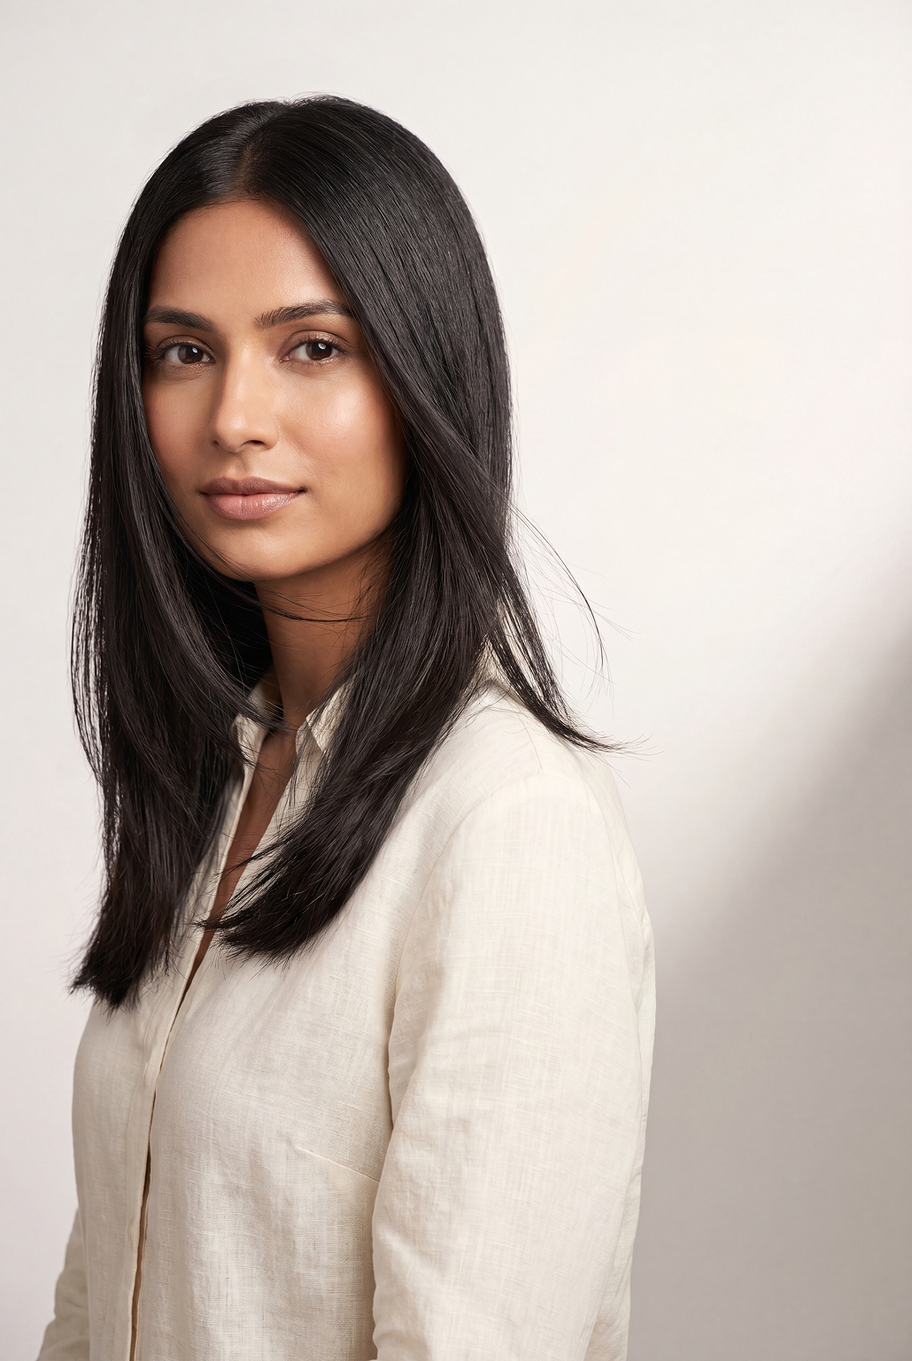
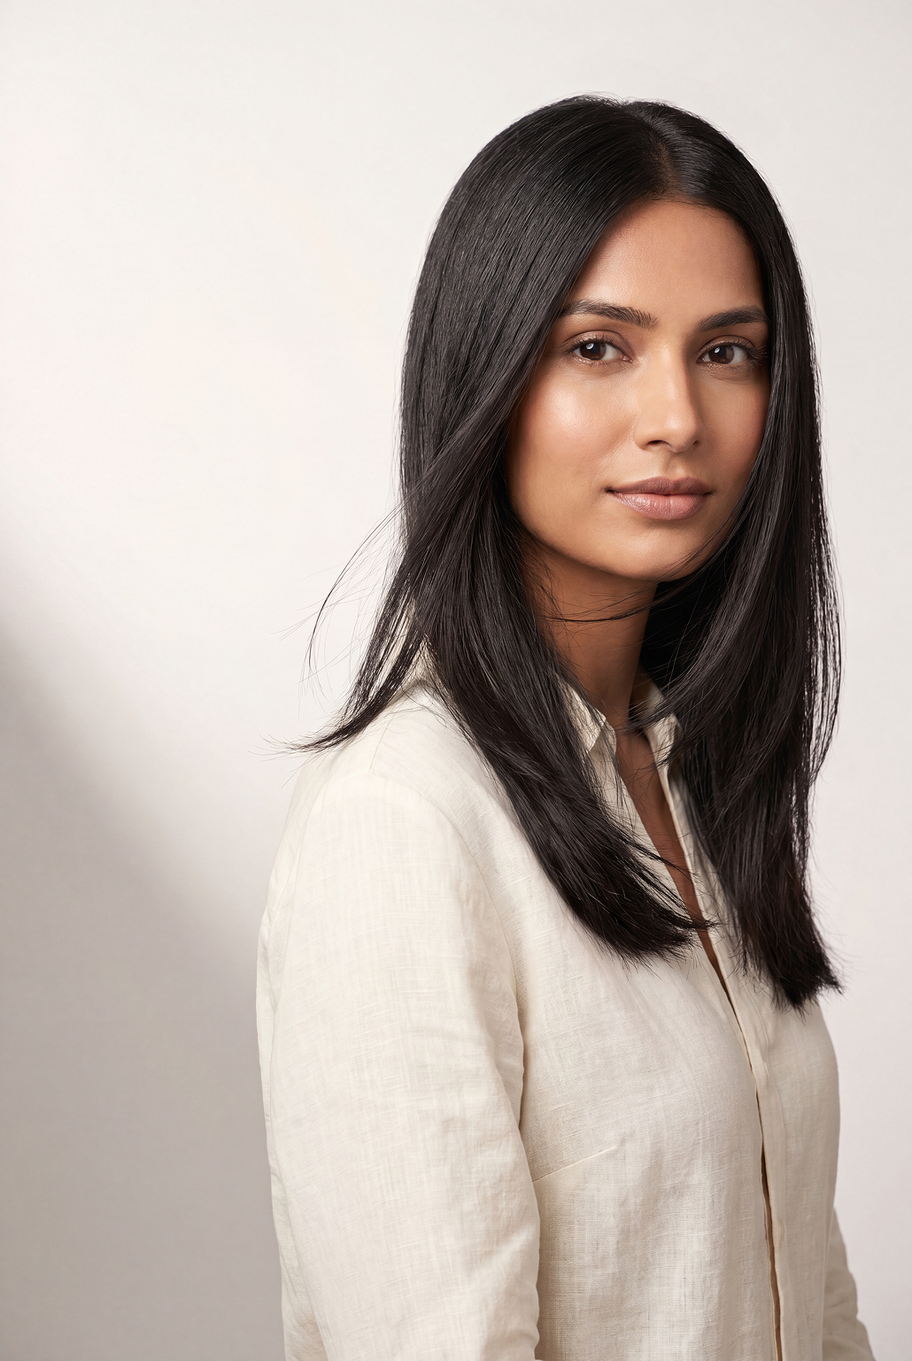
refactor: add patient name and optional feedback bypass to report viewer with hero image mask fix for PDF exports

diff --git a/src/pages/TestReportPage.tsx b/src/pages/TestReportPage.tsx
@@ -26,6 +26,25 @@ const VARIANT_OPTIONS: Record<string, string[]> = {
   FGFR2: ['TT', 'GT', 'GG'],
 };
 
+// Every question's 3 options are seeded in the same fixed order (score 1, 0, -1 -
+// see server/createQuestionsTable.js), and each gene's 3 genotypes represent the
+// same dominant/heterozygous/recessive tiers - so "High"/"Neutral"/"Low" picks a
+// consistent tier across every question AND every gene, rather than the old
+// per-question/per-gene random pick (which could land on a mix of tiers and
+// produce an internally inconsistent-reading report). Note VARIANT_OPTIONS above
+// is the raw lab-entry dropdown order (not always High-to-Low - e.g. ACE lists
+// II first), so this maps genotypes explicitly by tier instead of by array index.
+type RandomizeLevel = 'high' | 'neutral' | 'low';
+const LEVEL_TO_OPTION_INDEX: Record<RandomizeLevel, number> = { high: 0, neutral: 1, low: 2 };
+const LEVEL_GENOTYPE: Record<string, Record<RandomizeLevel, string>> = {
+  CYP1A2: { high: 'AA', neutral: 'AC', low: 'CC' },
+  ADORA2A: { high: 'TT', neutral: 'TC', low: 'CC' },
+  ACTN3: { high: 'RR', neutral: 'RX', low: 'XX' },
+  ACE: { high: 'DD', neutral: 'ID', low: 'II' },
+  EDAR: { high: 'GG', neutral: 'AG', low: 'AA' },
+  FGFR2: { high: 'TT', neutral: 'GT', low: 'GG' },
+};
+
 interface SelectedQuestion extends Question {
   test_name: string;
   subgene_name: string;
@@ -190,12 +209,13 @@ export default function TestReportPage() {
     }
   };
 
-  const handleRandomize = () => {
+  const handleRandomize = (level: RandomizeLevel) => {
+    const optionIndex = LEVEL_TO_OPTION_INDEX[level];
     if (questions.length > 0) {
       setAnswers(prev => {
         const next = { ...prev };
         questions.forEach(q => {
-          next[q.uniqueId] = Math.floor(Math.random() * q.options.length);
+          next[q.uniqueId] = Math.min(optionIndex, q.options.length - 1);
         });
         return next;
       });
@@ -208,9 +228,9 @@ export default function TestReportPage() {
       setGeneVariants(prev => {
         const next = { ...prev };
         genesToRandomize.forEach(gene => {
-          const opts = VARIANT_OPTIONS[gene];
-          if (opts && opts.length > 0) {
-            next[gene] = opts[Math.floor(Math.random() * opts.length)];
+          const genotype = LEVEL_GENOTYPE[gene]?.[level];
+          if (genotype) {
+            next[gene] = genotype;
           }
         });
         return next;
@@ -521,14 +541,25 @@ export default function TestReportPage() {
             Answered: <span className="font-bold text-[#1A1A19]">{answeredQuestionIds.size}</span> / {questions.length}
           </span>
           <div className="flex items-center gap-3">
-            <button
-              onClick={handleRandomize}
-              disabled={questions.length === 0}
-              className="flex items-center gap-2 px-4 py-2.5 rounded-xl font-bold text-sm border border-[#E8E8E5] text-[#1A1A19] hover:bg-[#F0F0ED] transition-all disabled:opacity-50 disabled:cursor-not-allowed"
-            >
-              <Shuffle className="w-4 h-4" />
-              Randomize
-            </button>
+            <div className="relative">
+              <Shuffle className="w-4 h-4 absolute left-3.5 top-1/2 -translate-y-1/2 pointer-events-none text-[#1A1A19]" />
+              <select
+                value=""
+                onChange={(e) => {
+                  const level = e.target.value as RandomizeLevel | '';
+                  if (level) handleRandomize(level);
+                  e.target.value = '';
+                }}
+                disabled={questions.length === 0}
+                className="appearance-none cursor-pointer flex items-center gap-2 pl-9 pr-8 py-2.5 rounded-xl font-bold text-sm border border-[#E8E8E5] text-[#1A1A19] bg-white hover:bg-[#F0F0ED] transition-all disabled:opacity-50 disabled:cursor-not-allowed"
+              >
+                <option value="" disabled>Randomize</option>
+                <option value="high">High</option>
+                <option value="neutral">Neutral</option>
+                <option value="low">Low</option>
+              </select>
+              <ChevronDown className="w-3.5 h-3.5 absolute right-3 top-1/2 -translate-y-1/2 pointer-events-none text-[#8B8B86]" />
+            </div>
             <button
               onClick={handleGenerate}
               disabled={!allAnswered || generating}
@@ -1527,6 +1558,34 @@ export default function TestReportPage() {
                               while (zoomCleanupFns.length) zoomCleanupFns.pop()();
                           };
 
+                          // html2canvas (used internally by html2pdf) doesn't support CSS
+                          // mask-image / -webkit-mask-image at all - it paints the Page 1 hero
+                          // photo fully opaque with a hard edge instead of the soft left-to-white
+                          // fade the live HTML preview shows via that mask. For capture only, lay
+                          // an ordinary white gradient div directly on top of the image (which
+                          // html2canvas paints fine) using the mask's own alpha stops inverted
+                          // onto opaque white, then remove it afterward via the same cleanup list
+                          // neutralizeZoom uses - the live preview's actual mask is never touched.
+                          // Mirrors ReportViewerModal.tsx.
+                          const addHeroFadeOverlay = (scope) => {
+                              const heroImage = scope.querySelector ? scope.querySelector('#page1-hero-image') : null;
+                              if (!heroImage) return;
+                              const rect = heroImage.getBoundingClientRect();
+                              if (rect.width === 0 && rect.height === 0) return; // not actually visible
+
+                              const overlay = document.createElement('div');
+                              overlay.style.position = 'absolute';
+                              overlay.style.top = '0';
+                              overlay.style.right = '0';
+                              overlay.style.width = heroImage.style.width || (rect.width + 'px');
+                              overlay.style.height = rect.height + 'px';
+                              overlay.style.pointerEvents = 'none';
+                              overlay.style.background = 'linear-gradient(90deg, #fff 0%, #fff 4%, rgba(255,255,255,.92) 9%, rgba(255,255,255,.78) 14%, rgba(255,255,255,.58) 19%, rgba(255,255,255,.36) 25%, rgba(255,255,255,.16) 31%, rgba(255,255,255,0) 39%)';
+
+                              heroImage.parentNode.insertBefore(overlay, heroImage.nextSibling);
+                              zoomCleanupFns.push(() => { overlay.remove(); });
+                          };
+
                           const opt = {
                             margin:       0,
                             filename:     filename || 'report.pdf',
@@ -1560,8 +1619,10 @@ export default function TestReportPage() {
                                           innerRestore.style.minHeight = (window.__originalPageMinHeights && window.__originalPageMinHeights.get(innerRestore)) || '';
                                       }
                                       // Only the page about to be captured is visible, so its zoomed
-                                      // elements can only be measured (and thus wrapped) now.
+                                      // elements (and the hero image's mask, if this is Page 1) can
+                                      // only be measured/patched now.
                                       neutralizeZoom(pages[i]);
+                                      addHeroFadeOverlay(pages[i]);
                                       return new Promise(r => setTimeout(r, 100)); // allow DOM to settle
                                   });
 
@@ -1579,6 +1640,7 @@ export default function TestReportPage() {
                               pages.forEach(p => p.style.display = ''); // restore display
                             } else {
                               neutralizeZoom(container);
+                              addHeroFadeOverlay(container);
                               await html2pdf().set(opt).from(container).save();
                               restoreZoom();
                             }
@@ -1601,7 +1663,9 @@ export default function TestReportPage() {
                     </script>
                   `;
 
-                  const now = new Date();
+                  // Fixed sample values for this QA page (not tied to a real patient/date) -
+                  // September 5th, 2026, 10:05 AM.
+                  const now = new Date(2026, 8, 5, 10, 5);
                   const formattedDate = now.toLocaleString('en-US', {
                     day: 'numeric',
                     month: 'short',
@@ -1610,6 +1674,8 @@ export default function TestReportPage() {
                     minute: '2-digit',
                     hour12: true
                   });
+                  const sampleMbqId = 'MBQ2026000';
+                  const sampleName = 'Sample Name';
 
                   const pageCount = (html.match(/data-screen-label=/g) || []).length;
                   setTotalPages(pageCount > 0 ? pageCount : 1);
@@ -1743,11 +1809,19 @@ export default function TestReportPage() {
                     </style>
                   `;
 
-                  const finalHtml = html
+                  let finalHtml = html
                     .replace('<head>', `<head><base href="${window.location.origin}/">\n${fontCss}`)
                     .replace('src="./support.js"', 'src="/templates/support.js"')
                     .replace(/dd mm yyyy/g, formattedDate)
                     .replace('</body>', scriptString + '\n' + carouselScript + '\n</body>');
+
+                  // Catches "CQ ID: CQ-2024...", "MBQ ID: MBQ-2024...", etc. in all templates
+                  // (Caffeine, Muscle, Hair) - replaces every page's footer in one pass and
+                  // appends the sample name alongside it. Mirrors ReportViewerModal.tsx.
+                  finalHtml = finalHtml.replace(
+                    /(?:CQ|MBQ|HQ)?\s*ID:\s*(?:CQ|MBQ|HQ)?-?\d{4}-\d{4}-\d{6}/g,
+                    `ID: ${sampleMbqId} &bull; ${sampleName}`
+                  );
 
                   setReportHtml(finalHtml);
                 } catch (err) {

diff --git a/src/components/ReportViewerModal.tsx b/src/components/ReportViewerModal.tsx
@@ -9,8 +9,13 @@ interface ReportViewerModalProps {
   geneVariants: any;
   testName: string;
   mbqId?: string;
+  patientName?: string | null;
   generatedAt?: string | null;
   gender?: string | null;
+  /** Whether per-page feedback must be given before the download unlocks. Defaults
+   * to true for the patient-facing dashboard; the admin verification portal passes
+   * false so staff can download straight away. */
+  requireFeedback?: boolean;
 }
 
 // Every template page is laid out at a fixed intrinsic size (matches the
@@ -49,7 +54,7 @@ const DislikeIcon = ({ className }: { className?: string }) => (
   </svg>
 );
 
-export default function ReportViewerModal({ isOpen, onClose, reportData, geneVariants, testName, mbqId, generatedAt, gender }: ReportViewerModalProps) {
+export default function ReportViewerModal({ isOpen, onClose, reportData, geneVariants, testName, mbqId, patientName, generatedAt, gender, requireFeedback = true }: ReportViewerModalProps) {
   const [reportHtml, setReportHtml] = useState<string | null>(null);
   const [scale, setScale] = useState(1);
   const viewportRef = useRef<HTMLDivElement>(null);
@@ -90,7 +95,7 @@ export default function ReportViewerModal({ isOpen, onClose, reportData, geneVar
   // Guards against briefly re-prompting for a page's feedback while the fetch of
   // previously-given feedback (below) is still in flight.
   const [feedbackLoaded, setFeedbackLoaded] = useState(false);
-  const hasAllFeedback = totalPages > 0 && Object.keys(pageFeedbacks).length >= totalPages;
+  const hasAllFeedback = !requireFeedback || (totalPages > 0 && Object.keys(pageFeedbacks).length >= totalPages);
 
   // Download countdown / "what's next" interest-collection flow.
   const [showDownloadFlow, setShowDownloadFlow] = useState(false);
@@ -111,6 +116,12 @@ export default function ReportViewerModal({ isOpen, onClose, reportData, geneVar
   // was closed partway through) so those pages aren't asked again.
   useEffect(() => {
     if (!isOpen || !testName || !mbqId) return;
+    if (!requireFeedback) {
+      // Admin portal: skip the feedback fetch/gate entirely so Next Page and
+      // Download are never blocked waiting on it.
+      setFeedbackLoaded(true);
+      return;
+    }
     setFeedbackLoaded(false);
     fetch(`/api/test/feedback?test_name=${encodeURIComponent(testName)}&mbq_id=${encodeURIComponent(mbqId)}`)
       .then(res => res.json())
@@ -128,7 +139,7 @@ export default function ReportViewerModal({ isOpen, onClose, reportData, geneVar
       })
       .catch(err => console.error('Failed to load existing feedback:', err))
       .finally(() => setFeedbackLoaded(true));
-  }, [isOpen, testName, mbqId]);
+  }, [isOpen, testName, mbqId, requireFeedback]);
 
   // Load any interest the user already recorded (in a previous report's download flow,
   // possibly) for the upcoming tests, so the same choices don't need repeating.
@@ -1240,6 +1251,33 @@ export default function ReportViewerModal({ isOpen, onClose, reportData, geneVar
                               while (zoomCleanupFns.length) zoomCleanupFns.pop()();
                           };
 
+                          // html2canvas (used internally by html2pdf) doesn't support CSS
+                          // mask-image / -webkit-mask-image at all - it paints the Page 1 hero
+                          // photo fully opaque with a hard edge instead of the soft left-to-white
+                          // fade the live HTML preview shows via that mask. For capture only, lay
+                          // an ordinary white gradient div directly on top of the image (which
+                          // html2canvas paints fine) using the mask's own alpha stops inverted
+                          // onto opaque white, then remove it afterward via the same cleanup list
+                          // neutralizeZoom uses - the live preview's actual mask is never touched.
+                          const addHeroFadeOverlay = (scope) => {
+                              const heroImage = scope.querySelector ? scope.querySelector('#page1-hero-image') : null;
+                              if (!heroImage) return;
+                              const rect = heroImage.getBoundingClientRect();
+                              if (rect.width === 0 && rect.height === 0) return; // not actually visible
+
+                              const overlay = document.createElement('div');
+                              overlay.style.position = 'absolute';
+                              overlay.style.top = '0';
+                              overlay.style.right = '0';
+                              overlay.style.width = heroImage.style.width || (rect.width + 'px');
+                              overlay.style.height = rect.height + 'px';
+                              overlay.style.pointerEvents = 'none';
+                              overlay.style.background = 'linear-gradient(90deg, #fff 0%, #fff 4%, rgba(255,255,255,.92) 9%, rgba(255,255,255,.78) 14%, rgba(255,255,255,.58) 19%, rgba(255,255,255,.36) 25%, rgba(255,255,255,.16) 31%, rgba(255,255,255,0) 39%)';
+
+                              heroImage.parentNode.insertBefore(overlay, heroImage.nextSibling);
+                              zoomCleanupFns.push(() => { overlay.remove(); });
+                          };
+
                           const opt = {
                             margin:       0,
                             filename:     filename || 'report.pdf',
@@ -1272,8 +1310,10 @@ export default function ReportViewerModal({ isOpen, onClose, reportData, geneVar
                                           innerRestore.style.minHeight = (window.__originalPageMinHeights && window.__originalPageMinHeights.get(innerRestore)) || '';
                                       }
                                       // Only the page about to be captured is visible, so its zoomed
-                                      // elements can only be measured (and thus wrapped) now.
+                                      // elements (and the hero image's mask, if this is Page 1) can
+                                      // only be measured/patched now.
                                       neutralizeZoom(pages[i]);
+                                      addHeroFadeOverlay(pages[i]);
                                       return new Promise(r => setTimeout(r, 100)); // allow DOM to settle
                                   });
 
@@ -1291,6 +1331,7 @@ export default function ReportViewerModal({ isOpen, onClose, reportData, geneVar
                               pages.forEach(p => p.style.display = ''); // restore display
                             } else {
                               neutralizeZoom(container);
+                              addHeroFadeOverlay(container);
                               await html2pdf().set(opt).from(container).save();
                               restoreZoom();
                             }
@@ -1441,7 +1482,17 @@ export default function ReportViewerModal({ isOpen, onClose, reportData, geneVar
 
       if (mbqId) {
         // Catches "CQ ID: CQ-2024...", "MBQ ID: MBQ-2024...", etc. in all templates (Caffeine, Muscle, Hair, etc.)
-        finalHtml = finalHtml.replace(/(?:CQ|MBQ|HQ)?\s*ID:\s*(?:CQ|MBQ|HQ)?-?\d{4}-\d{4}-\d{6}/g, `ID: ${mbqId}`);
+        // — replaces it on every page's footer in one pass since the placeholder text is
+        // identical across all 5 pages. Appends the patient's name alongside it (same footer
+        // slot) rather than touching each template's markup individually.
+        const escapeHtml = (s: string) => s.replace(/&/g, '&amp;').replace(/</g, '&lt;').replace(/>/g, '&gt;');
+        const footerIdText = patientName
+          ? `ID: ${mbqId} &bull; ${escapeHtml(patientName)}`
+          : `ID: ${mbqId}`;
+        // $ has special meaning as a String.replace replacement token (e.g. "$&") - escape any
+        // literal $ in the name/id so it can't be misinterpreted.
+        const safeFooterIdText = footerIdText.replace(/\$/g, '$$$$');
+        finalHtml = finalHtml.replace(/(?:CQ|MBQ|HQ)?\s*ID:\s*(?:CQ|MBQ|HQ)?-?\d{4}-\d{4}-\d{6}/g, safeFooterIdText);
       }
 
       setReportHtml(finalHtml);
@@ -1564,7 +1615,7 @@ export default function ReportViewerModal({ isOpen, onClose, reportData, geneVar
                     {currentPageIndex + 1} / {totalPages}
                   </span>
 
-                  {feedbackLoaded && currentPageIndex === totalPages - 1 && !pageFeedbacks[currentPageIndex] ? (
+                  {requireFeedback && feedbackLoaded && currentPageIndex === totalPages - 1 && !pageFeedbacks[currentPageIndex] ? (
                     <button
                       onClick={() => {
                         setPendingNextIndex(null);
@@ -1580,9 +1631,10 @@ export default function ReportViewerModal({ isOpen, onClose, reportData, geneVar
                       onClick={() => {
                         // Previously-answered pages (loaded from an earlier visit) skip
                         // straight ahead; only an unanswered page prompts for feedback.
+                        // Admin portal (requireFeedback=false) always skips straight ahead.
                         if (!feedbackLoaded) return;
                         if (currentPageIndex < totalPages - 1) {
-                          if (!pageFeedbacks[currentPageIndex]) {
+                          if (requireFeedback && !pageFeedbacks[currentPageIndex]) {
                             setPendingNextIndex(currentPageIndex + 1);
                             setShowFeedbackPrompt(true);
                           } else {

diff --git a/src/pages/PatientDashboardPage.tsx b/src/pages/PatientDashboardPage.tsx
@@ -47,7 +47,7 @@ export default function PatientDashboardPage() {
   const [showSurveyModal, setShowSurveyModal] = useState(false);
   const [showLifestyleModal, setShowLifestyleModal] = useState(false);
   const [selectedAIReport, setSelectedAIReport] = useState<{ geneName: string, content: string } | null>(null);
-  const [viewReportData, setViewReportData] = useState<{ testName: string; reportData: any; variants: any; mbqId?: string; generatedAt?: string | null; gender?: string | null } | null>(null);
+  const [viewReportData, setViewReportData] = useState<{ testName: string; reportData: any; variants: any; mbqId?: string; patientName?: string | null; generatedAt?: string | null; gender?: string | null } | null>(null);
   const [fetchDataStatus, setFetchDataStatus] = useState<{ type: 'success' | 'error' | 'warning', message: string } | null>(null);
   const [hasMultipleProfiles, setHasMultipleProfiles] = useState(false);
   const [showSwabTutorial, setShowSwabTutorial] = useState(false);
@@ -235,7 +235,7 @@ export default function PatientDashboardPage() {
             )}
             {reportData.ai_report && (
               <button
-                onClick={() => setViewReportData({ testName: geneName, reportData: reportData.ai_report, variants: reportData.variants, mbqId: formatUserId(user.id, user.created_at), generatedAt: getReportGeneratedAt(reportData, user.status_timestamps?.generated), gender: user.gender })}
+                onClick={() => setViewReportData({ testName: geneName, reportData: reportData.ai_report, variants: reportData.variants, mbqId: formatUserId(user.id, user.created_at), patientName: user.full_name, generatedAt: getReportGeneratedAt(reportData, user.status_timestamps?.generated), gender: user.gender })}
                 className="flex items-center gap-2 px-3 py-1.5 sm:px-4 sm:py-2 bg-[#6057D7] text-white rounded-full text-xs sm:text-sm font-medium hover:bg-[#4F46B8] transition-colors shadow-sm cursor-pointer"
               >
                 <Sparkles size={16} />
@@ -644,7 +644,7 @@ export default function PatientDashboardPage() {
                       )}
                       {reportData.ai_report && (
                         <button
-                          onClick={() => setViewReportData({ testName: geneName, reportData: reportData.ai_report, variants: reportData.variants, mbqId: formatUserId(user.id, user.created_at), generatedAt: getReportGeneratedAt(reportData, user.status_timestamps?.generated), gender: user.gender })}
+                          onClick={() => setViewReportData({ testName: geneName, reportData: reportData.ai_report, variants: reportData.variants, mbqId: formatUserId(user.id, user.created_at), patientName: user.full_name, generatedAt: getReportGeneratedAt(reportData, user.status_timestamps?.generated), gender: user.gender })}
                           className="flex-1 py-3.5 bg-amber-100 hover:bg-amber-200 text-amber-700 rounded-xl font-semibold text-sm flex items-center justify-center gap-2 shadow-md transition-all active:scale-95 cursor-pointer"
                         >
                           <Sparkles size={18} />
@@ -841,6 +841,7 @@ export default function PatientDashboardPage() {
           geneVariants={viewReportData.variants}
           testName={viewReportData.testName}
           mbqId={viewReportData.mbqId}
+          patientName={viewReportData.patientName}
           generatedAt={viewReportData.generatedAt}
           gender={viewReportData.gender}
         />

diff --git a/src/pages/AdminVerifyPage.tsx b/src/pages/AdminVerifyPage.tsx
@@ -33,7 +33,7 @@ export default function AdminVerifyPage() {
   const [selectedDataFilter, setSelectedDataFilter] = useState<string>('all');
   const [selectedWorkflowFilter, setSelectedWorkflowFilter] = useState<string>('all');
   const [selectedGeneFilter, setSelectedGeneFilter] = useState<string>('all');
-  const [selectedAIReport, setSelectedAIReport] = useState<{ testName: string, reportData: any, variants: any, mbqId?: string, generatedAt?: string | null, gender?: string | null } | null>(null);
+  const [selectedAIReport, setSelectedAIReport] = useState<{ testName: string, reportData: any, variants: any, mbqId?: string, patientName?: string | null, generatedAt?: string | null, gender?: string | null } | null>(null);
   const [actionLoading, setActionLoading] = useState<number | null>(null);
   const [isMobilePieModalOpen, setIsMobilePieModalOpen] = useState(false);
   const [isQuestionsModalOpen, setIsQuestionsModalOpen] = useState(false);
@@ -1044,7 +1044,7 @@ export default function AdminVerifyPage() {
                                     )}
                                     {reportData.ai_report && (
                                       <button
-                                        onClick={() => setSelectedAIReport({ testName: geneName, reportData: reportData.ai_report, variants: reportData.variants, mbqId: formatUserId(patient.id, patient.created_at), generatedAt: getReportGeneratedAt(reportData, patient.status_timestamps?.generated), gender: patient.gender })}
+                                        onClick={() => setSelectedAIReport({ testName: geneName, reportData: reportData.ai_report, variants: reportData.variants, mbqId: formatUserId(patient.id, patient.created_at), patientName: patient.full_name, generatedAt: getReportGeneratedAt(reportData, patient.status_timestamps?.generated), gender: patient.gender })}
                                         className="flex items-center gap-2 px-4 py-2 bg-amber-100/80 hover:bg-amber-200 border border-amber-200 text-amber-700 rounded-xl text-xs font-bold transition-all shadow-sm cursor-pointer"
                                       >
                                         <Sparkles size={14} />
@@ -1748,8 +1748,10 @@ export default function AdminVerifyPage() {
           reportData={selectedAIReport.reportData}
           geneVariants={selectedAIReport.variants}
           mbqId={selectedAIReport.mbqId}
+          patientName={selectedAIReport.patientName}
           generatedAt={selectedAIReport.generatedAt}
           gender={selectedAIReport.gender}
+          requireFeedback={false}
         />
       )}
     </motion.div >
